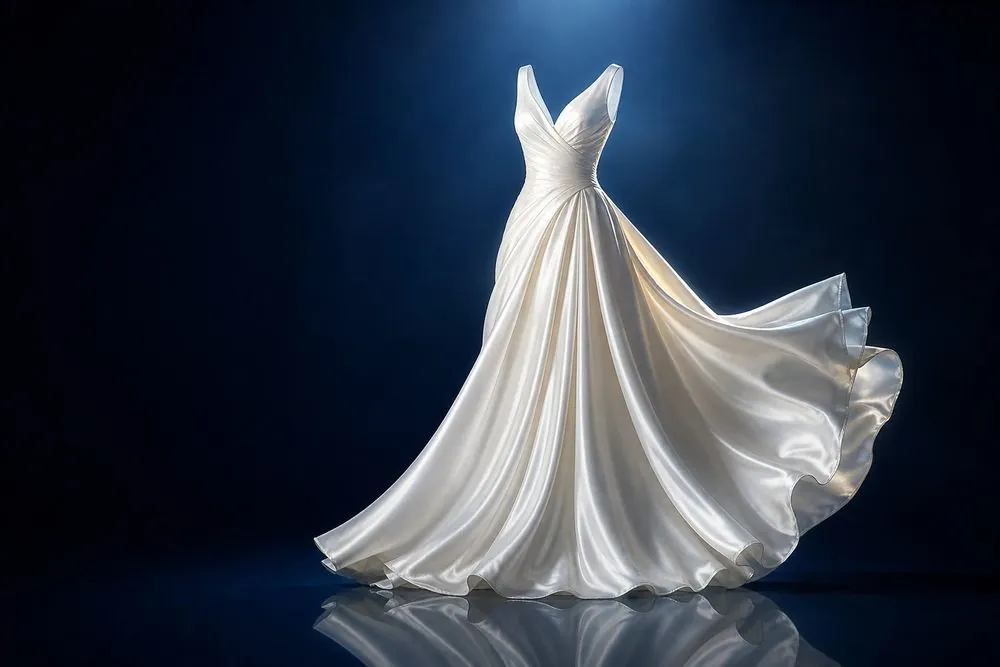
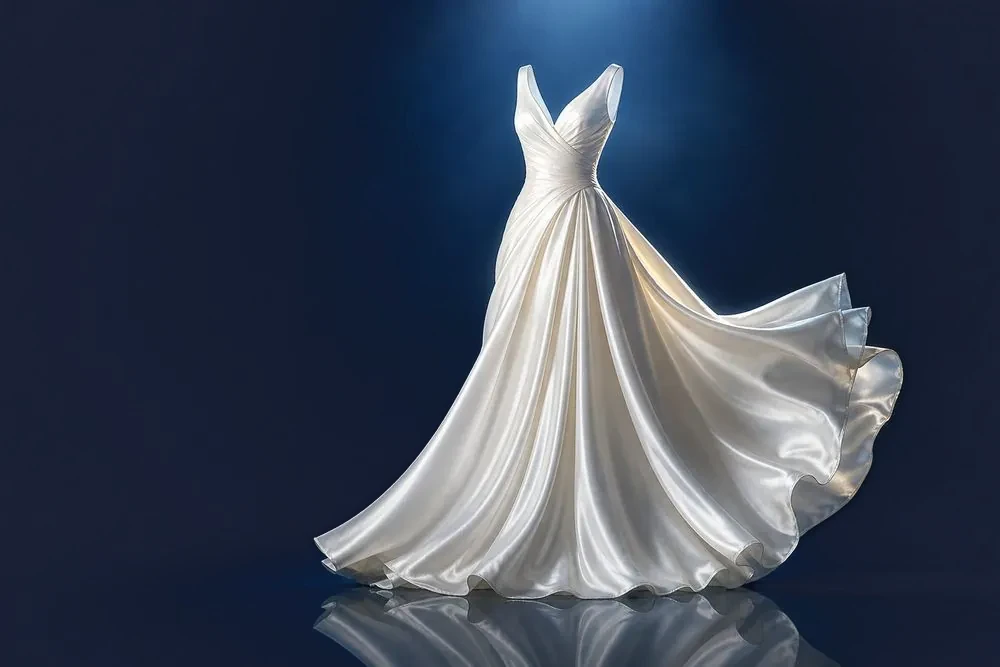
new-backgroundphoto

diff --git a/index.html b/index.html
@@ -1112,12 +1112,12 @@ h1,h2,h3{letter-spacing:-.02em;line-height:1.1;font-weight:800}
 <section id="services" class="sec"><div class="wrap">
   <div class="sec-head"><span class="eyebrow" data-i18n="serv_eyebrow">Что мы чистим</span><h2 data-i18n="serv_h2">Услуги для любых вещей</h2><p data-i18n="serv_p">От повседневной рубашки до свадебного платья и любимых кроссовок.</p></div>
   <div class="serv-grid">
-    <div class="serv" data-jumpcat="outer" role="button" tabindex="0"><img src="assets/outer-coat.webp" alt="" loading="lazy" width="1400" height="788"><div class="serv-sc"></div><div class="serv-c"><h3 data-i18n="sv1_h">Верхняя одежда</h3><p data-i18n="sv1_p">Пальто, пуховики, плащи, тренчи</p><span class="from" data-i18n="sv1_f">от 195 лей</span></div></div>
-    <div class="serv" data-jumpcat="leather" role="button" tabindex="0"><img src="assets/leather-jacket.webp" alt="" loading="lazy" width="1400" height="788"><div class="serv-sc"></div><div class="serv-c"><h3 data-i18n="sv2_h">Кожа и замша</h3><p data-i18n="sv2_p">Куртки, дублёнки, чистка и покраска</p><span class="from" data-i18n="sv2_f">от 415 лей</span></div></div>
-    <div class="serv" data-jumpcat="suits" role="button" tabindex="0"><img src="assets/dress-gown.webp" alt="" loading="lazy" width="1400" height="788"><div class="serv-sc"></div><div class="serv-c"><h3 data-i18n="sv3_h">Платья и свадебные</h3><p data-i18n="sv3_p">Вечерние, свадебные, деликатная чистка</p><span class="from" data-i18n="sv3_f">от 205 лей</span></div></div>
-    <div class="serv" data-jumpcat="shoes" role="button" tabindex="0"><img src="assets/sneakers-clean.webp" alt="" loading="lazy" width="1400" height="788"><div class="serv-sc"></div><div class="serv-c"><h3 data-i18n="sv4_h">Сникер-химчистка</h3><p data-i18n="sv4_p">Кроссовки, кеды, покраска и пропитка</p><span class="from" data-i18n="sv4_f">от 330 лей</span></div></div>
-    <div class="serv" data-jumpcat="bedding" role="button" tabindex="0"><img src="assets/home-textile.webp" alt="Дом и текстиль — химчистка" loading="lazy" width="1440" height="960"><div class="serv-sc"></div><div class="serv-c"><h3 data-i18n="sv5_h">Дом и текстиль</h3><p data-i18n="sv5_p">Шторы, пледы, подушки</p><span class="from" data-i18n="sv5_f">цена по запросу</span></div></div>
-    <div class="serv" data-jumpcat="fur" role="button" tabindex="0"><img src="assets/fur-shearling.webp" alt="Мех и дублёнки — химчистка" loading="lazy" width="1440" height="960"><div class="serv-sc"></div><div class="serv-c"><h3 data-i18n="sv6_h">Мех и дублёнки</h3><p data-i18n="sv6_p">Натуральный и искусственный мех, реставрация</p><span class="from" data-i18n="sv6_f">от 165 лей</span></div></div>
+    <div class="serv" data-jumpcat="outer" role="button" tabindex="0"><img src="assets/outer-coat.webp?v=1" alt="" loading="lazy" width="1400" height="788"><div class="serv-sc"></div><div class="serv-c"><h3 data-i18n="sv1_h">Верхняя одежда</h3><p data-i18n="sv1_p">Пальто, пуховики, плащи, тренчи</p><span class="from" data-i18n="sv1_f">от 195 лей</span></div></div>
+    <div class="serv" data-jumpcat="leather" role="button" tabindex="0"><img src="assets/leather-jacket.webp?v=1" alt="" loading="lazy" width="1400" height="788"><div class="serv-sc"></div><div class="serv-c"><h3 data-i18n="sv2_h">Кожа и замша</h3><p data-i18n="sv2_p">Куртки, дублёнки, чистка и покраска</p><span class="from" data-i18n="sv2_f">от 415 лей</span></div></div>
+    <div class="serv" data-jumpcat="suits" role="button" tabindex="0"><img src="assets/dress-gown.webp?v=1" alt="" loading="lazy" width="1400" height="788"><div class="serv-sc"></div><div class="serv-c"><h3 data-i18n="sv3_h">Платья и свадебные</h3><p data-i18n="sv3_p">Вечерние, свадебные, деликатная чистка</p><span class="from" data-i18n="sv3_f">от 205 лей</span></div></div>
+    <div class="serv" data-jumpcat="shoes" role="button" tabindex="0"><img src="assets/sneakers-clean.webp?v=1" alt="" loading="lazy" width="1400" height="788"><div class="serv-sc"></div><div class="serv-c"><h3 data-i18n="sv4_h">Сникер-химчистка</h3><p data-i18n="sv4_p">Кроссовки, кеды, покраска и пропитка</p><span class="from" data-i18n="sv4_f">от 330 лей</span></div></div>
+    <div class="serv" data-jumpcat="bedding" role="button" tabindex="0"><img src="assets/home-textile.webp?v=1" alt="Дом и текстиль — химчистка" loading="lazy" width="1440" height="960"><div class="serv-sc"></div><div class="serv-c"><h3 data-i18n="sv5_h">Дом и текстиль</h3><p data-i18n="sv5_p">Шторы, пледы, подушки</p><span class="from" data-i18n="sv5_f">цена по запросу</span></div></div>
+    <div class="serv" data-jumpcat="fur" role="button" tabindex="0"><img src="assets/fur-shearling.webp?v=1" alt="Мех и дублёнки — химчистка" loading="lazy" width="1440" height="960"><div class="serv-sc"></div><div class="serv-c"><h3 data-i18n="sv6_h">Мех и дублёнки</h3><p data-i18n="sv6_p">Натуральный и искусственный мех, реставрация</p><span class="from" data-i18n="sv6_f">от 165 лей</span></div></div>
   </div>
 </div></section>
 
